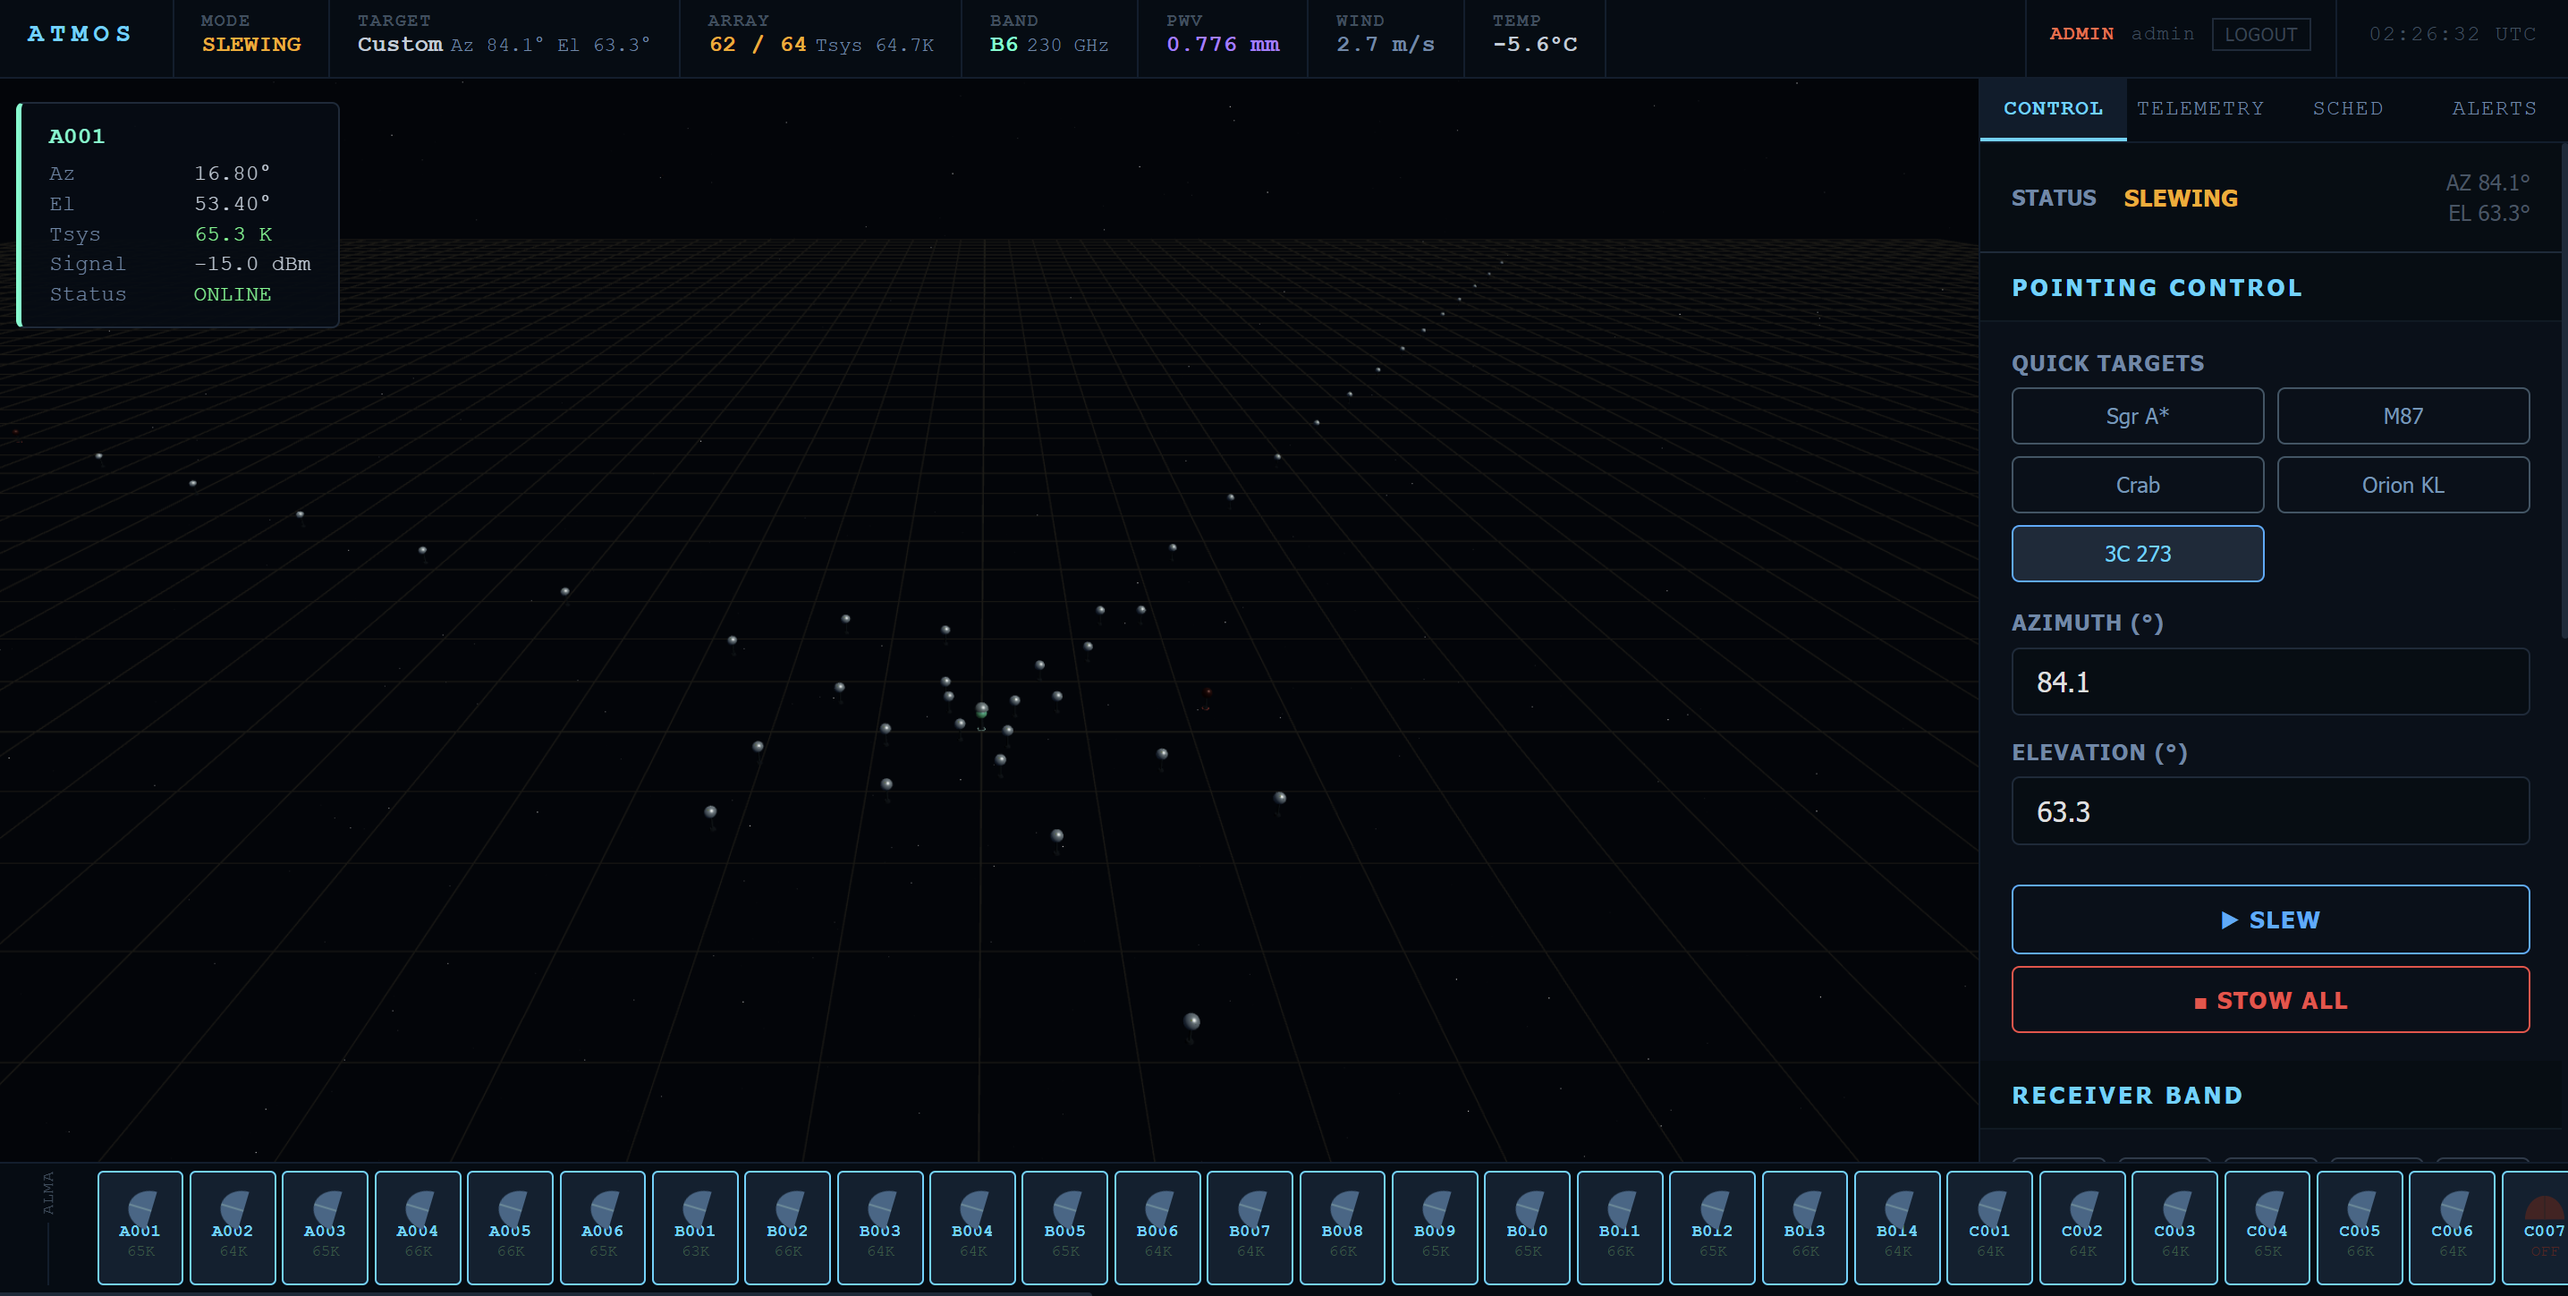
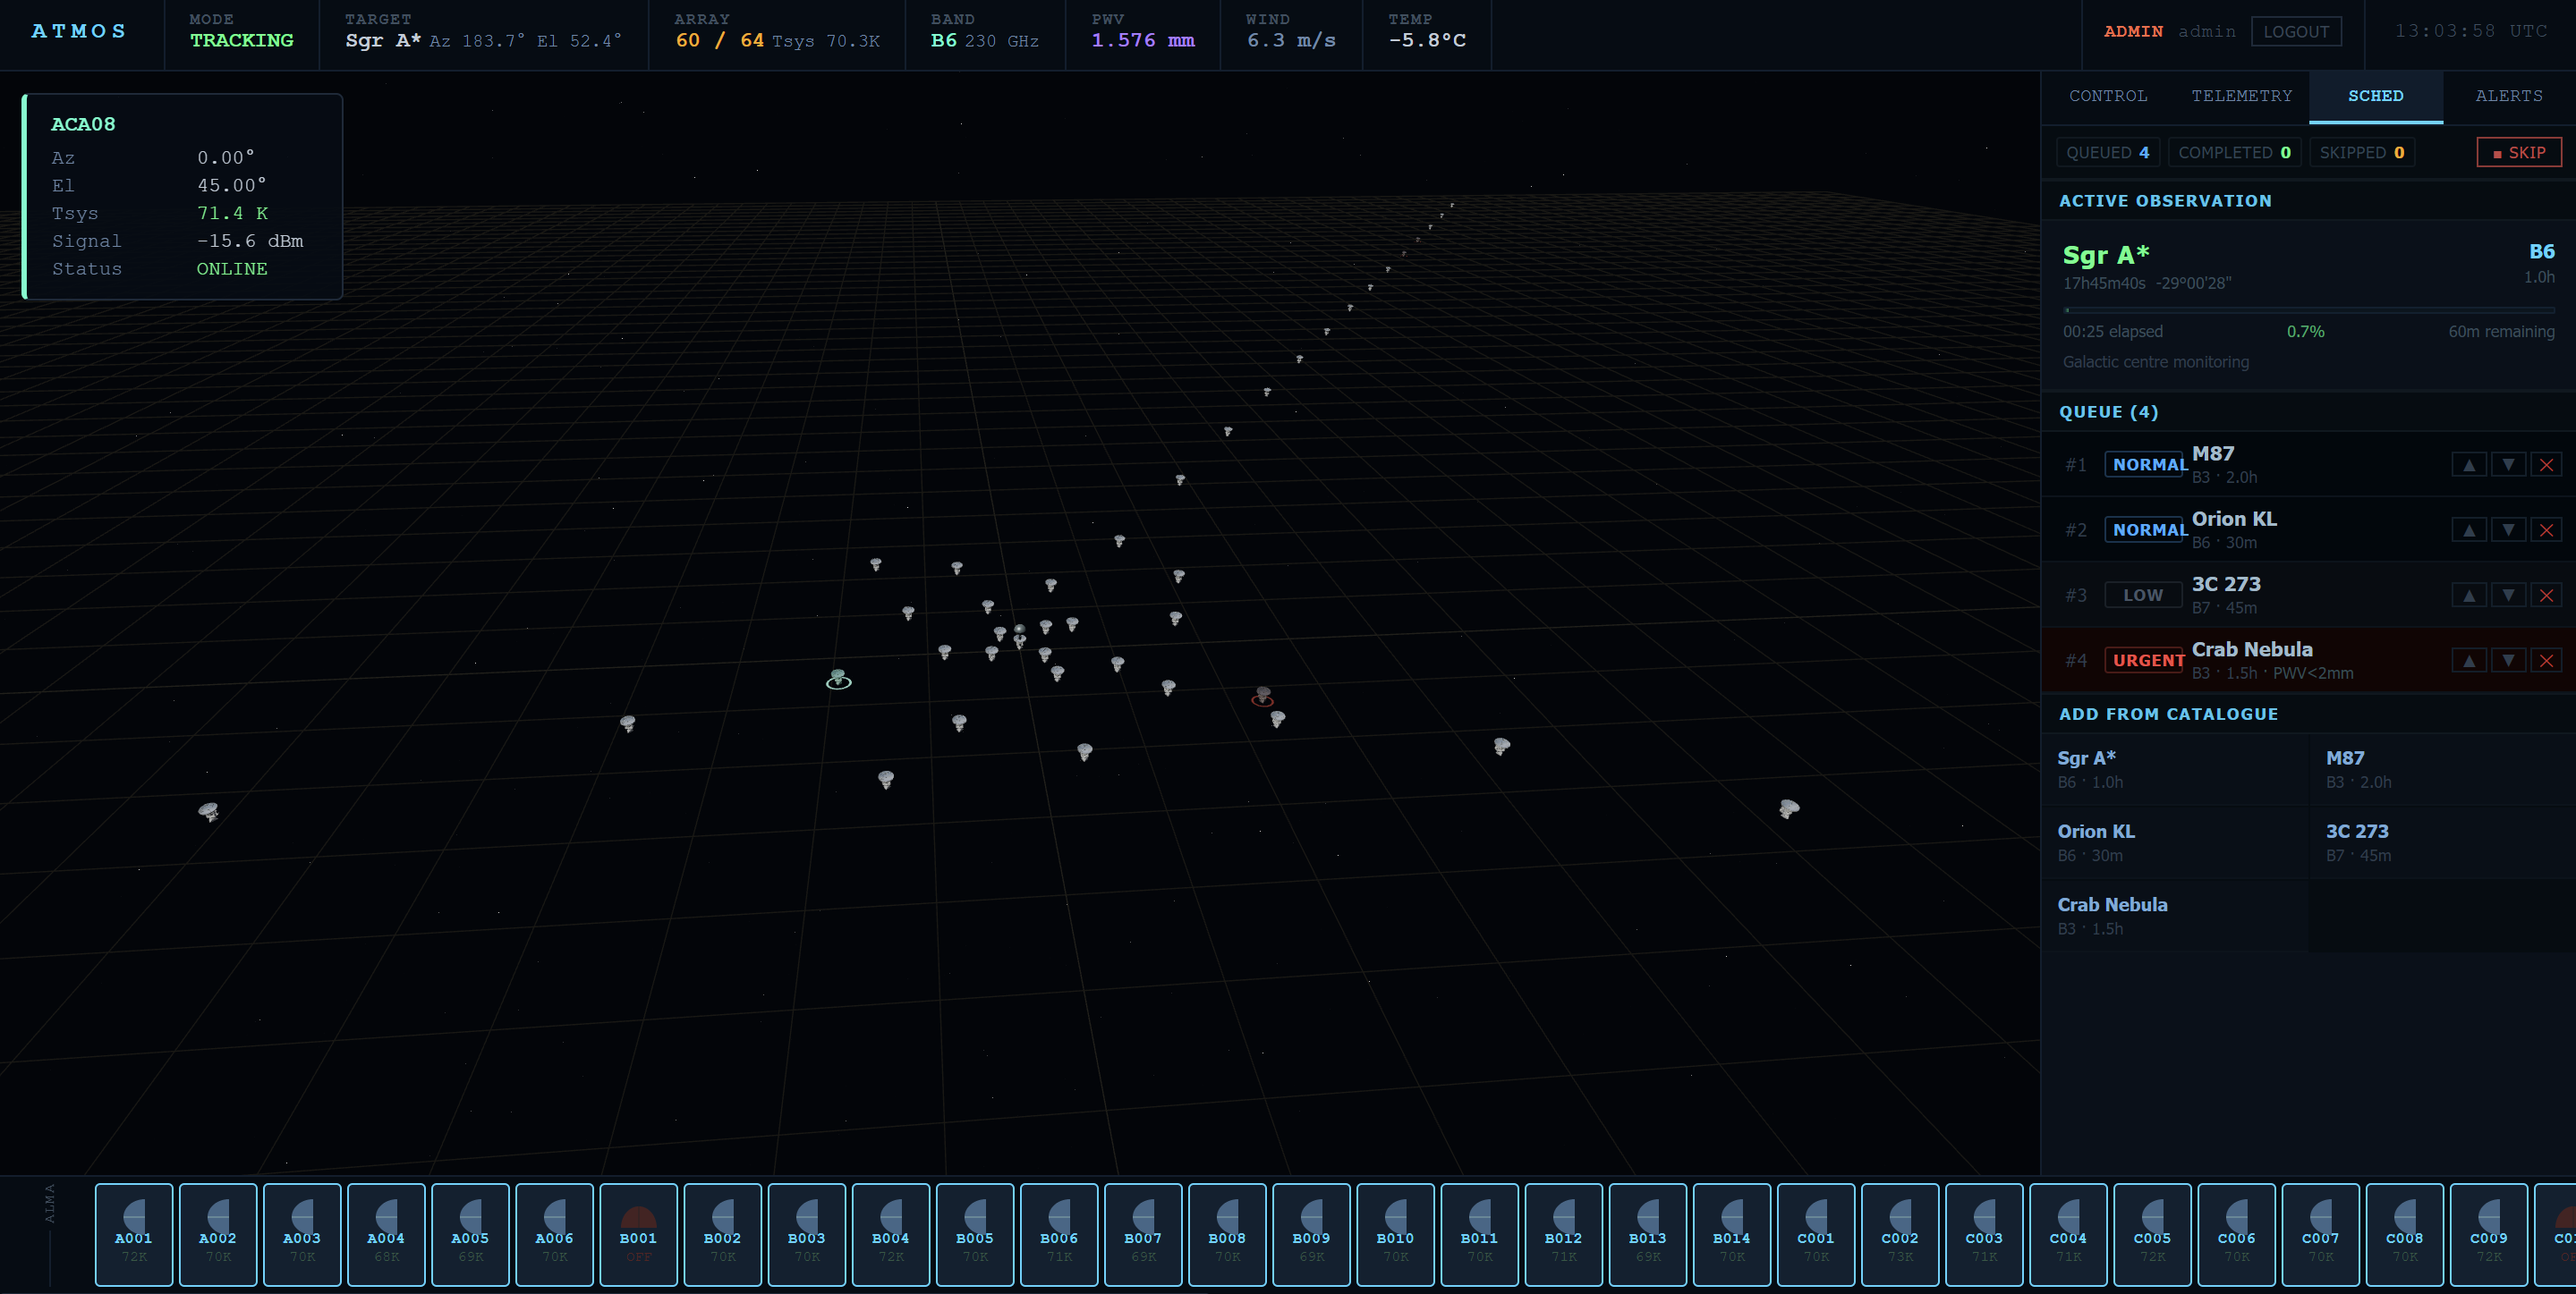
docs:update 3D alma Telescope

diff --git a/README.md b/README.md
@@ -12,9 +12,9 @@ A high-fidelity **SCADA (Supervisory Control and Data Acquisition)** simulation 
 
 ## Preview
 
-![ATMOS Dashboard — Pointing Control panel with 3D dish visualization](docs/pictures/ATMOS_Dashboard.png)
+![ATMOS Dashboard — Scheduler panel with 3D array visualization](docs/pictures/ATMOS_Dashboard.png)
 
-> *ATMOS control interface showing 62/64 antennas online, slewing to target 3C 273 at Az 84.1° El 63.3°*
+> *ATMOS control interface showing 60/64 antennas online, tracking Sgr A\* at Az 183.7° El 52.4°, with 4 queued observations including an URGENT Crab Nebula job (PWV < 2mm constraint)*
 
 ---
 
